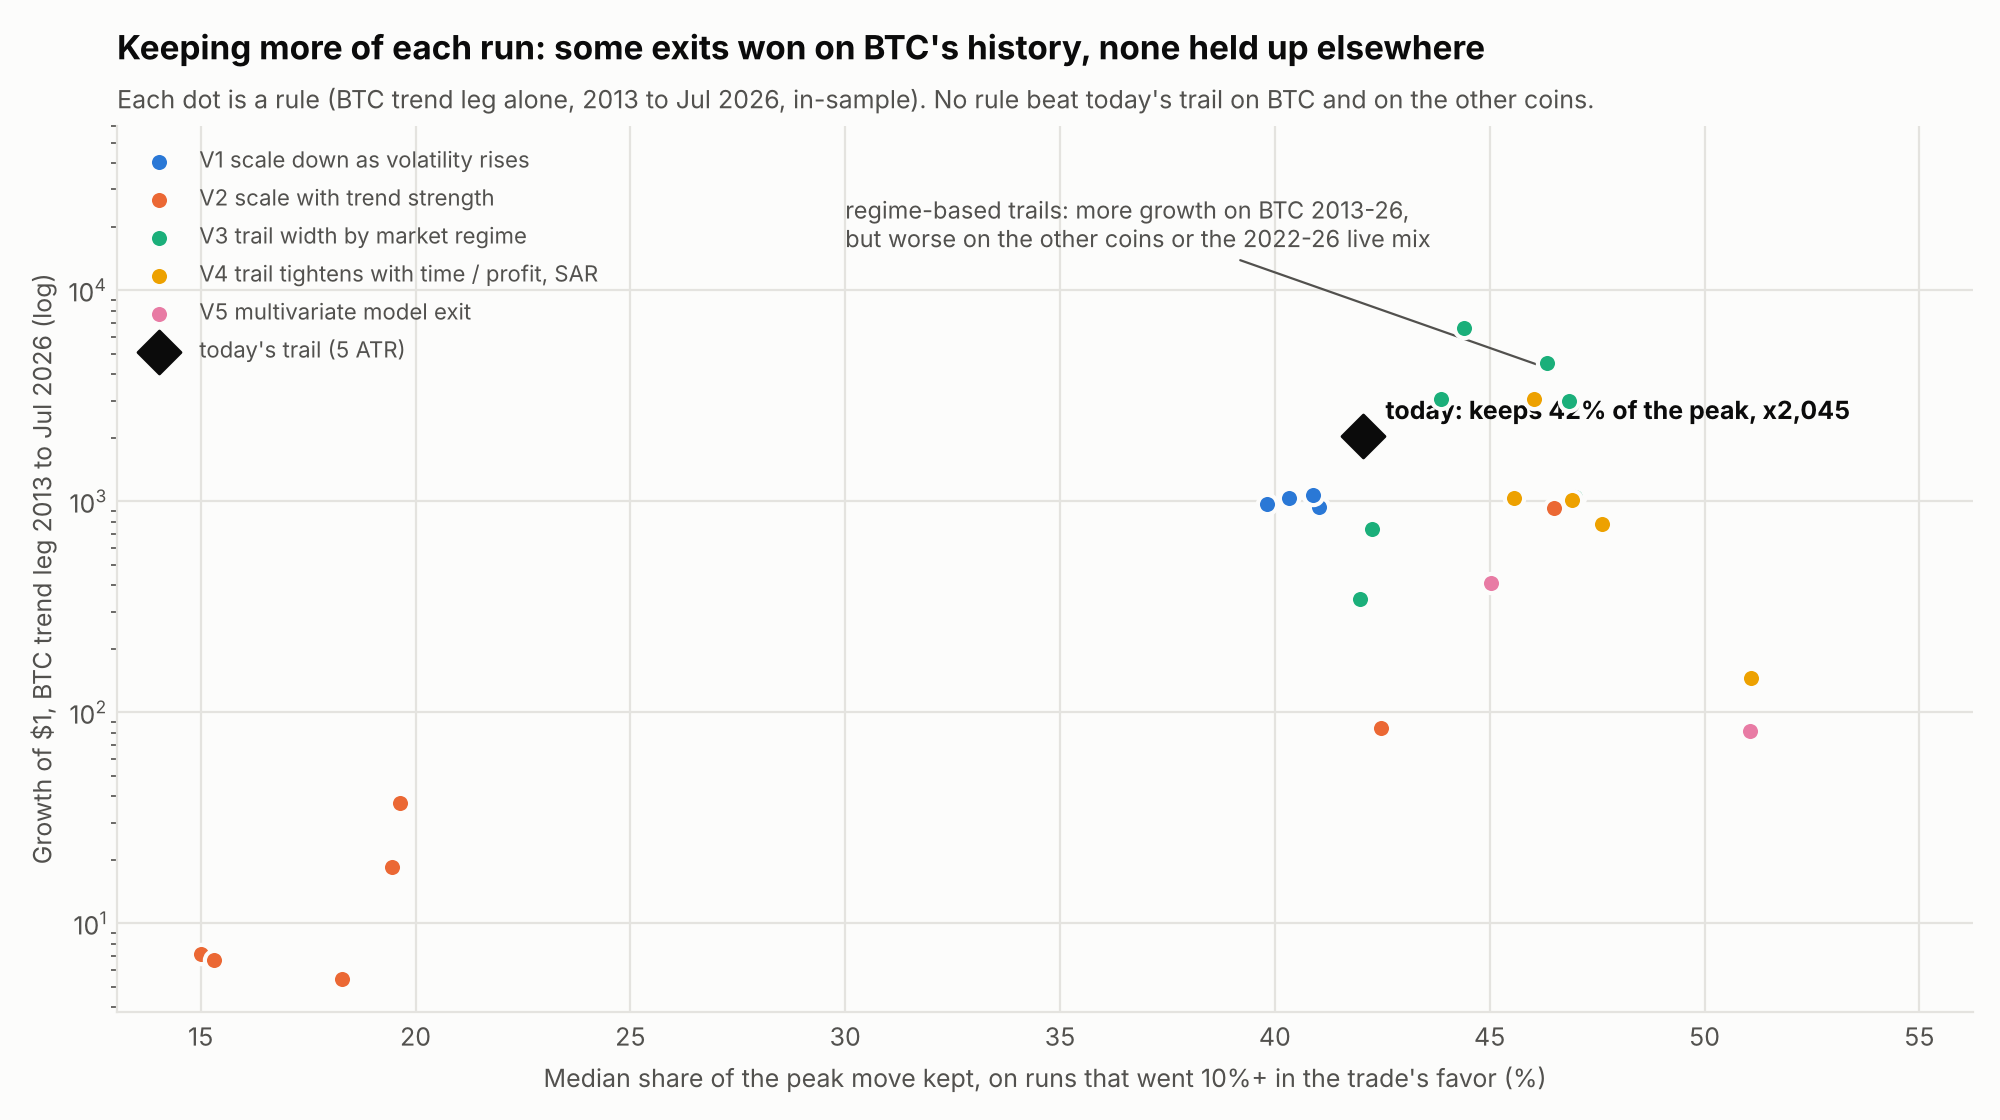
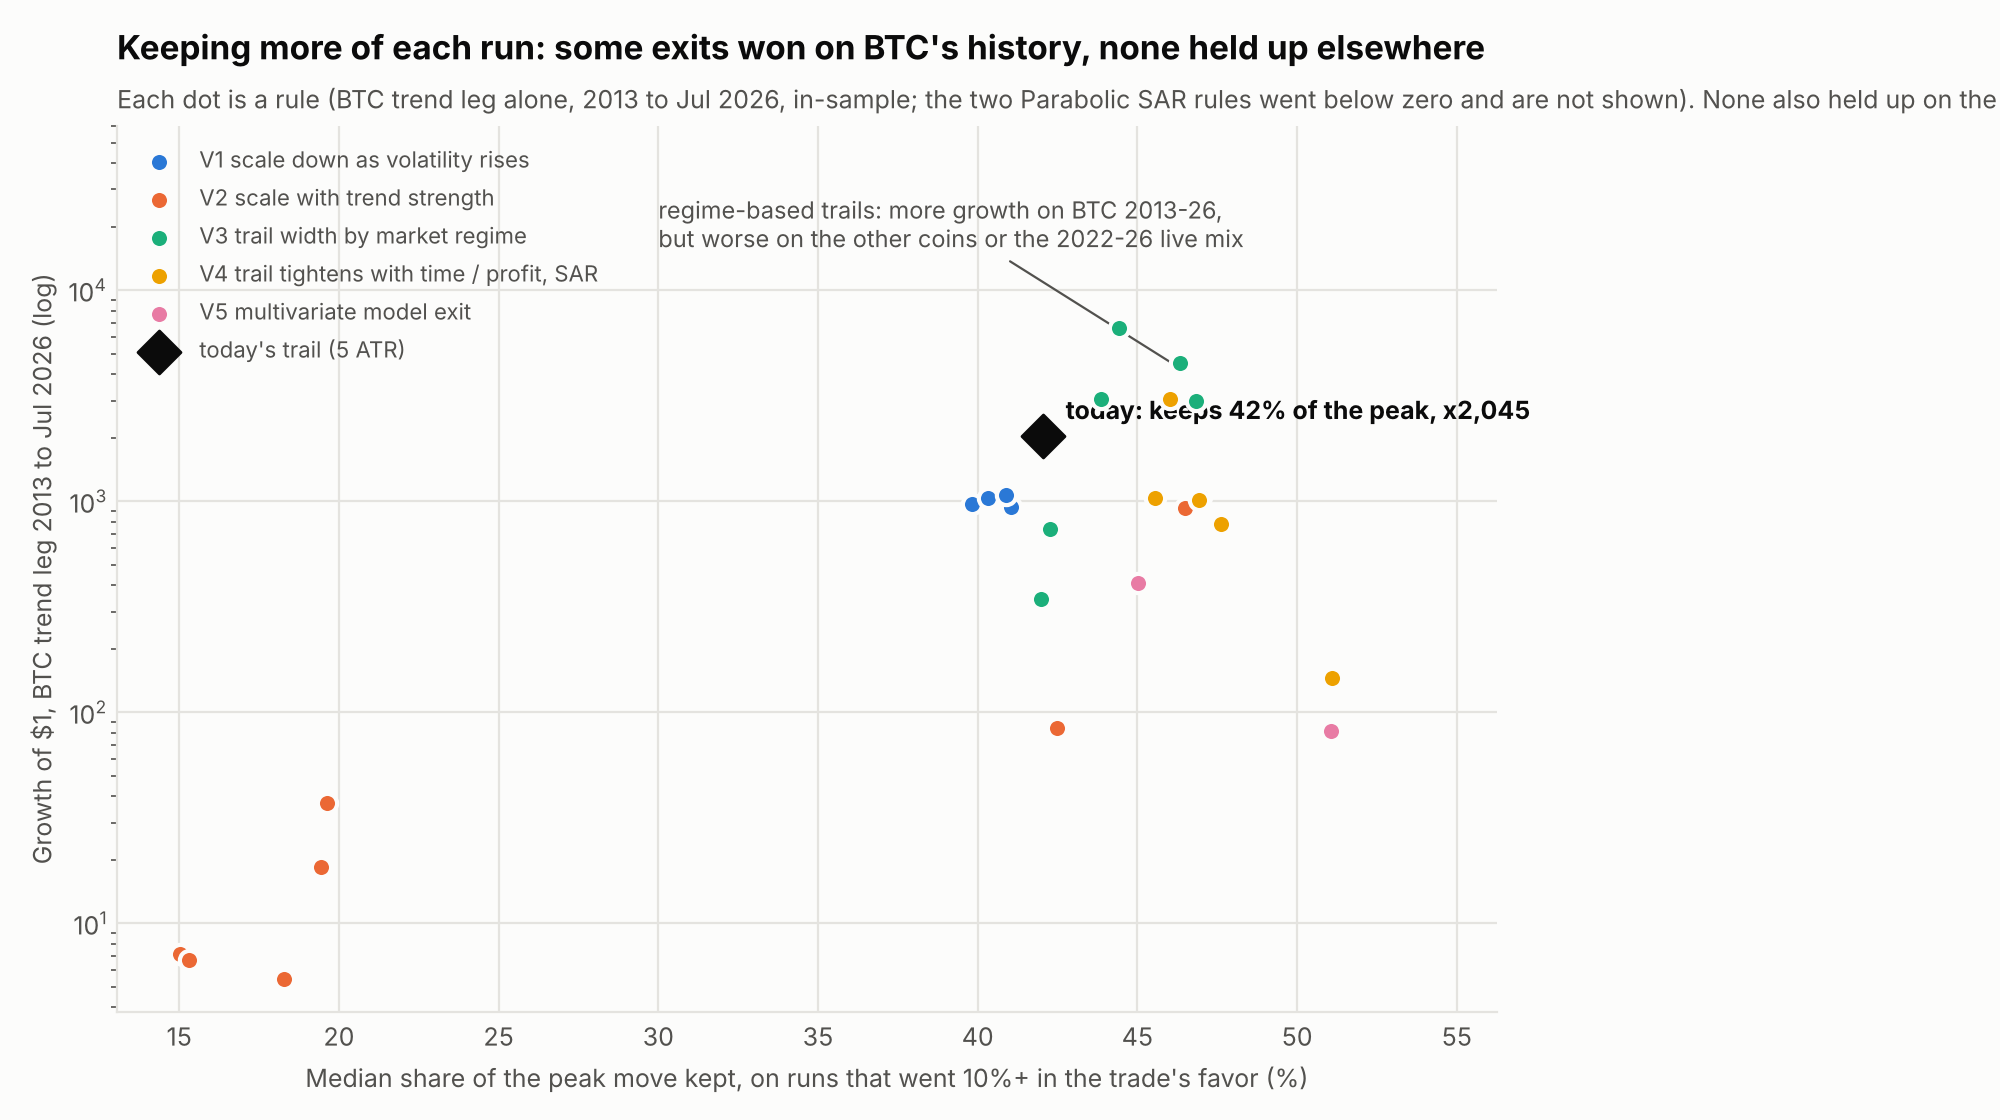
btc-paper-engine: EXIT2 final - 0 of 28 adaptive exits beat the 5xATR trail; verified
- RESEARCH_EXIT2.md: counter-agent verdict logged (independent engine-path
  recompute of all 26 non-model rows to 4e-12; V5 audited, no leakage; every
  flag recomputed; 0 selected, holdout untouched). Fixed per the review: the
  "keeping more made less" line was backwards (on BTC they go together:
  rank +0.25, +0.80 without the two bankrupt SAR rows) - now stated as such;
  second BTC passer (wider trail in high vol, worse on all 4 coins) named;
  luck context (best +0.24 ~ median best-of-30 random +0.22); kill-switch,
  partial-event, liquidation and holdout-contact disclosures.
- test_exit2.py: +4 gates (long-side flip, vol floor, scale step, model
  training cutoff), each killing its planted mutant; 76/76.
- figures: captions corrected (SAR rules not shown on the log chart; "no
  rule was run on" the holdout).
No engine or executor change; nothing to redeploy.

Claude-Session: https://claude.ai/code/session_01UKA46pUo7nPTJWjLQb2a24

diff --git a/btc-paper-engine/research/exit2/test_exit2.py b/btc-paper-engine/research/exit2/test_exit2.py
@@ -143,3 +143,63 @@ def test_psar_tightens_and_binds():
     _step(b, A, E, 6, x, open=lvl - 0.5, high=lvl + 1, low=lvl - 1, close=lvl)
     t = b.trades[-1]
     assert t.exit_reason == "SAR" and t.exit_price == max(lvl, lvl - 0.5)   # touched: fills at the level
+
+
+# G8 additions (counter-agent C, defect 4): long side, V1 floor, V2 step,
+# and the V5 training cutoff.
+def _long_book(qty=1.0):
+    b = Book(cfg=S4_CFG)
+    b.position = Position(side="L", entry_ts=0, entry_price=100.0, qty=qty, notional=100.0 * qty,
+                          stop_price=90.0, atr_at_entry=1.0, signal_ts=-H, fee_bps=12.0, trail=90.0)
+    st = _fresh_state(1.0, 100.0)
+    st.update(qty0=qty, frac=1.0, vol0=0.01, sar=None, ep=None, af=None)
+    b._st = st
+    return b
+
+
+def test_trend_flip_exits_long_when_trend_turns_down():
+    A, E = _asset(), _E(6, t=-3.0)
+    b, x = _long_book(), X(ts_set=(30,), ts_div=2.0, ts_mode="flip")
+    _step(b, A, E, 1, x)
+    _step(b, A, E, 2, x, open=99.3)
+    assert b.trades[-1].exit_reason == "TREND" and b.trades[-1].exit_price == 99.3
+    A, E = _asset(), _E(6, t=+3.0)                         # trend still up: no exit
+    b = _long_book()
+    _step(b, A, E, 1, x)
+    assert b._st["flag"] is None
+
+
+def test_volscale_floor_is_quarter():
+    A, E = _asset(), _E(6, rv=0.10)                       # vol x10 -> 1/10, floored at 0.25
+    b, x = _short_book(), X(vs_band=0.10, vs_kind="rv")
+    _step(b, A, E, 1, x)
+    assert abs(b._st["flag_f"] - 0.75) < 1e-12
+
+
+def test_trend_scale_needs_quarter_step():
+    A, E = _asset(), _E(6, t=-1.7)                        # short: aligned signal 0.85 -> step 0.15 < 0.25
+    b, x = _short_book(), X(ts_set=(30,), ts_div=2.0, ts_mode="scale")
+    _step(b, A, E, 1, x)
+    assert b._st["flag"] is None
+    A, E = _asset(), _E(6, t=-1.0)                        # aligned 0.5 -> step 0.5 >= 0.25: scale to 0.5
+    b = _short_book()
+    _step(b, A, E, 1, x)
+    assert b._st["flag"] == "SCALE" and abs(b._st["flag_f"] - 0.5) < 1e-12
+
+
+def test_v5_trains_only_on_trades_closed_before_the_year():
+    import harness2 as h
+    from harness2 import year_start
+    rng = random.Random(3)
+    early = [(year_start(2020) - 1000 * k, [rng.gauss(0, 1) for _ in range(11)], float(rng.random() < 0.3))
+             for k in range(1, 700)]
+    late = [(year_start(2020) + 1000 * k, [rng.gauss(2, 1) for _ in range(11)], 1.0) for k in range(700)]
+    saved = dict(h.MODELS)
+    try:
+        h.train_models(early + late, years=[2020])
+        got = h.MODELS[2020]
+        ref = h._fit_logistic([f for _, f, _ in early], [l for _, _, l in early])
+        assert all(abs(a - b) < 1e-12 for a, b in zip(got[2], ref[2])) and abs(got[3] - ref[3]) < 1e-12
+    finally:
+        h.MODELS.clear()
+        h.MODELS.update(saved)

diff --git a/btc-paper-engine/research/exit2/charts2.py b/btc-paper-engine/research/exit2/charts2.py
@@ -75,8 +75,8 @@ ax.set_xlabel(f"Change in MAR on BTC, live strategy mix 2022-26 (baseline {base[
 ax.set_ylabel("Avg MAR change on ETH, LTC, XRP, BCH")
 ax.legend(loc="lower right", frameon=False, fontsize=8, labelcolor=INK2)
 title(ax, "0 of 28 adaptive exits made the cut",
-      "Each dot is one registered exit rule. The 12 fresh holdout coins were never touched: "
-      "nothing qualified to be tested on them.")
+      "Each dot is one registered exit rule. No rule was run on the 12 fresh holdout coins: "
+      "none qualified.")
 fig.tight_layout()
 fig.savefig(os.path.join(HERE, "exit2_fig1_map.png"), facecolor=SURF)
 
@@ -101,8 +101,8 @@ ax.annotate("regime-based trails: more growth on BTC 2013-26,\nbut worse on the 
             arrowprops=dict(arrowstyle="-", color=INK2, lw=0.8))
 ax.set_ylim(top=6e4)
 title(ax, "Keeping more of each run: some exits won on BTC's history, none held up elsewhere",
-      "Each dot is a rule (BTC trend leg alone, 2013 to Jul 2026, in-sample). "
-      "No rule beat today's trail on BTC and on the other coins.")
+      "Each dot is a rule (BTC trend leg alone, 2013 to Jul 2026, in-sample; the two Parabolic SAR rules "
+      "went below zero and are not shown). None also held up on the other coins.")
 fig.tight_layout()
 fig.savefig(os.path.join(HERE, "exit2_fig2_keep_vs_growth.png"), facecolor=SURF)
 

diff --git a/btc-paper-engine/RESEARCH_EXIT2.md b/btc-paper-engine/RESEARCH_EXIT2.md
@@ -9,9 +9,18 @@ variant ran). Code, data, results, figures: `research/exit2/`.
 
 ## Verdict
 
-**0 of 28 registered adaptive exits made the cut, so the 12 fresh holdout
-coins were never run, as registered.** The 5×ATR trail stays. The holdout
-is still unused, so it is available for one future registered candidate.
+**0 of 28 registered adaptive exits made the cut, so no rule was run on
+the 12 fresh holdout coins, as registered.** The 5×ATR trail stays. The
+holdout is still unused, so it is available for one future registered
+candidate.
+
+Two rules passed both BTC tests and failed on the other coins:
+- trail tightening 5→3.5 ATR over ~3 weeks;
+- wider trail when volatility is high (worse on all 4 coins).
+
+Neither BTC gain is more than luck: the best of the 28 (+0.24 MAR) is about
+what the best of 30 random exit rules typically scores (median +0.22; the
+95th percentile is +0.59).
 
 ![map](research/exit2/exit2_fig1_map.png)
 
@@ -40,7 +49,7 @@ Baseline:
 
 | Best of each family | BTC live mix ΔMAR | BTC trend leg 2013–26 | Other 4 coins | Peak kept | Why it fails |
 |---|---|---|---|---|---|
-| V4 trail tightens 5→3.5 ATR over ~3 weeks (closest) | +0.18 / +0.19 | +0.04 (×1,010) | 3/4 better, mean −0.02 (ETH −0.59) | 47% | halves BTC growth; ETH ×115 → ×7.5 |
+| V4 trail tightens 5→3.5 ATR over ~3 weeks (closest) | +0.18 / +0.19 | +0.04 (×1,010) | 3/4 better, mean −0.02 (ETH −0.59 alone) | 47% | halves BTC growth; it passes B only because max DD fell from −72% to −61%; ETH ×115 → ×7.5 |
 | V3 wider trail when volatility is high | +0.23 / +0.26 | +0.25 (×3,065) | 0/4 | 44% | BTC-only: worse on every other coin |
 | V1 cut size as volatility rises | +0.04 / +0.06 | −0.05 (×1,066) | 1/4 | 41% | roughly neutral; misses the +10% bar |
 | V2 trend-strength scaling | −0.27 to −0.84 | −0.66 to −0.88 | ≤ 1/4 | 15–20% | exits far too early |
@@ -64,9 +73,17 @@ grew BTC more over 2013–26 (×2,975–×6,619 vs ×2,045): four regime-based
 trails and two slow time-tightening trails. But all six failed on the other
 coins, and five of the six also missed the live-mix bar. No rule kept more
 on BTC and held up on the other coins.
-Across the 28 rules, the share kept and BTC growth are only weakly related
-(Spearman +0.25). So the give-back is not itself the cost. Every way we
-found to reduce it was BTC-specific.
+
+On BTC, keeping more and growing more go together:
+- rank correlation +0.25 across all 28 rules;
+- +0.80 without the two Parabolic SAR rules, whose books went below zero.
+
+Still, 12 of the 18 rules that kept more than 42% grew BTC less than
+today's trail, and none held up elsewhere. So the give-back is not itself
+the cost. Every way we found to reduce it was BTC-specific.
+
+The "kept" median also cannot see the right tail, which is where the money
+is: today's top 10% of trades earn 3.6× the leg's net P&L.
 
 ![near miss](research/exit2/exit2_fig3_nearmiss.png)
 
@@ -94,11 +111,44 @@ found to reduce it was BTC-specific.
 - **"Peak kept"** is the median share of the best favorable price move
   realized, on trades whose peak move was ≥10% of entry; it includes the
   exit bar's extreme.
+- **Kill switch and partials:** 11 of the 28 rules trip the trend leg's 50%
+  kill switch inside the 2022–26 window, so their A numbers partly measure
+  the halt. The closed-trade basis counts each partial exit as an event,
+  which penalises V1 and V2. Every row fails D, so neither changes the
+  verdict.
+- **No liquidation model:** the trend leg runs at a fixed 1× with no
+  liquidation. Both Parabolic SAR books go below zero after an April-2013
+  short, so their B and D figures are meaningless. Both fail A anyway.
+- **Design notes:**
+  - trend-strength scaling churns 642–805 entries vs 340;
+  - the model's θ = 0.6 sits at the label's base rate (0.59–0.63);
+  - for each alt's first year, the vol regime is 1.0 and alignment reads
+    "against";
+  - regime trails can never loosen the ratcheting stop.
+- **Holdout contact:** only BASE (gate G1), plus never-firing settings on
+  SOL (gate G6), pass/fail identity only.
 - **Trials:** 28, registry ~2,636. §7 overridden by the owner (§9a).
 
 ## Counter-agent log
 
-- Verification pending.
+- **C, one independent verifier** (null result, no live change, so one
+  verifier per the cost rule). Verdict: 0 of 28 selected, holdout untouched,
+  confirmed.
+  - Its own engine-path recompute (patched `_process_donchian`, its own
+    blends and MAR) reproduced all 26 non-model rows to 4e-12.
+  - It audited V5: the label was recomputed, training uses only trades
+    closed before each year, no leakage was found, and the model does fire.
+  - Every A/B/D flag was recomputed: 0 mismatches. D fails on all 28.
+  - Defects, all fixed or disclosed:
+    - SERIOUS: the draft line "keeping more made less money" was
+      backwards. Corrected above, with its numbers.
+    - MINOR: the second BTC passer, the luck bar, and the near-miss's
+      D-only-on-the-mean failure had been left out. Added.
+    - MINOR: the gates missed four planted rule-logic bugs (long-side sign,
+      vol floor, scale step, model training cutoff). Four tests added, each
+      killing its mutant; gates are now 76/76.
+    - MINOR: chart captions. Fixed.
+    - NOTEs: disclosed in the honesty box.
 
 ## What to do
 
